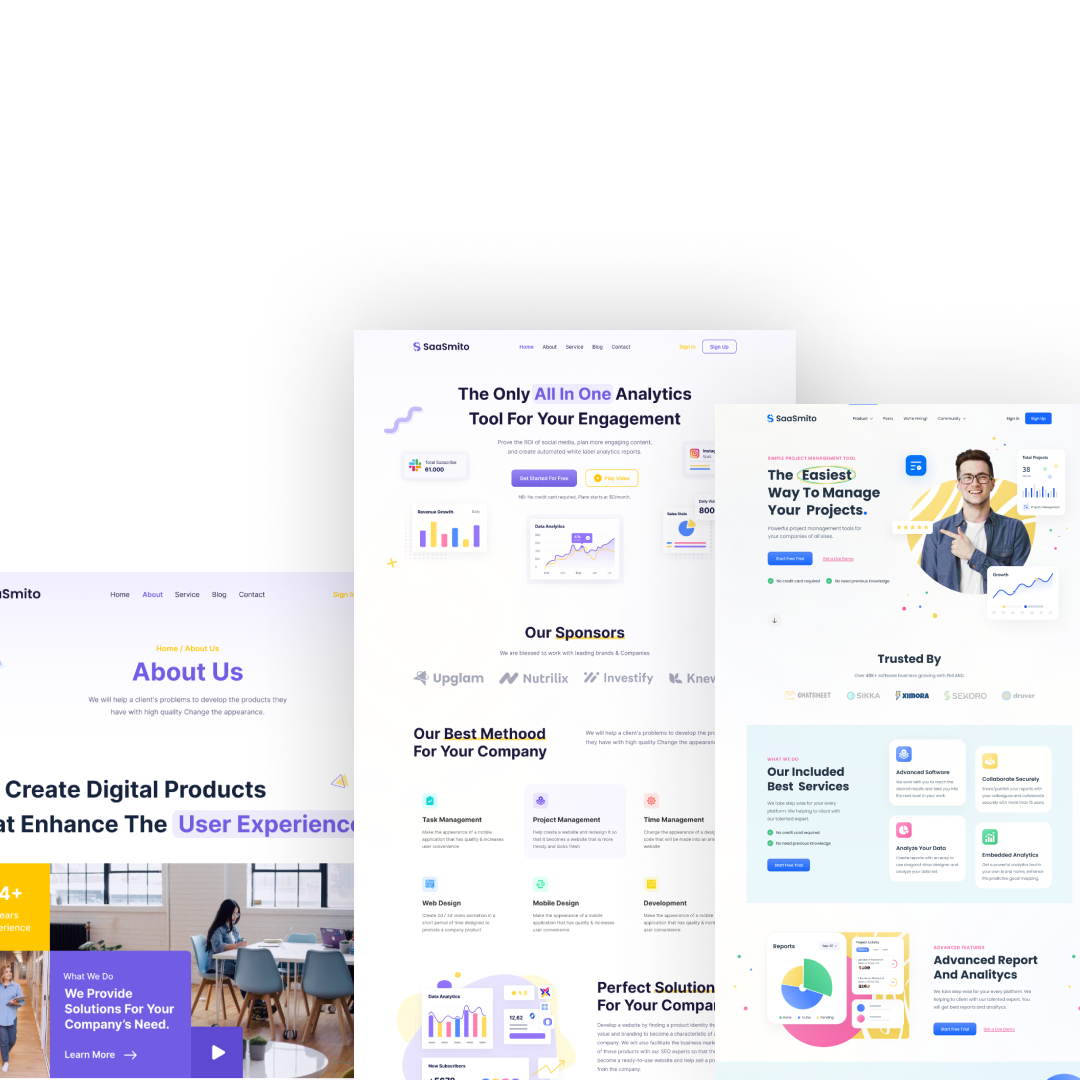
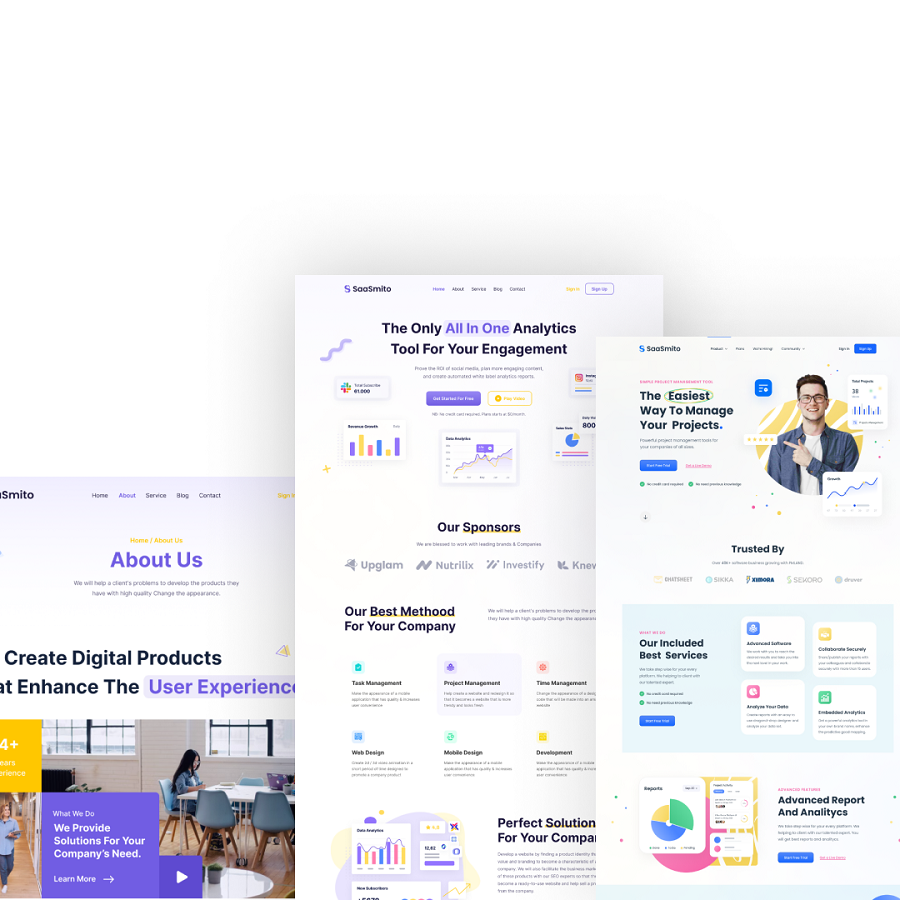
new changes added

diff --git a/style.scss b/style.scss
@@ -198,15 +198,40 @@ main{
     display: flex;
     flex-direction: column;
     align-items: center;
+    span{
+        color: #FF1CF7;
+    }
+    p{
+        margin-top: 20px;
+        width: 50%;
+        text-align: center;
+        letter-spacing: 1px;
+    }
+    button{
+        margin-top: 30px;
+        padding: 8px 26px;
+        outline: none;
+        border: none;
+        border: 1px solid #111;
+        background: transparent;
+        cursor: pointer;
+        font-size: 18px;
+        letter-spacing: 1px;
+        border-radius: 30px;
+    }
     .products-container{
         margin-top: 50px;
         display: flex;
         display: flex;
         justify-content: space-between;
         img{
-            height: 200px;
+            height: 260px;
             border: 1px solid #111;
-            margin: 20px 0;
+            margin: 20px 30px;
+            border-radius: 20px;
+            &:nth-child(2){
+                transform: scale3d(1.1,1.1,1.1);
+            }
         }
     }
 }

diff --git a/style.css b/style.css
@@ -182,6 +182,27 @@ main .image-container img {
   flex-direction: column;
   align-items: center;
 }
+.products span {
+  color: #FF1CF7;
+}
+.products p {
+  margin-top: 20px;
+  width: 50%;
+  text-align: center;
+  letter-spacing: 1px;
+}
+.products button {
+  margin-top: 30px;
+  padding: 8px 26px;
+  outline: none;
+  border: none;
+  border: 1px solid #111;
+  background: transparent;
+  cursor: pointer;
+  font-size: 18px;
+  letter-spacing: 1px;
+  border-radius: 30px;
+}
 .products .products-container {
   margin-top: 50px;
   display: flex;
@@ -189,7 +210,11 @@ main .image-container img {
   justify-content: space-between;
 }
 .products .products-container img {
-  height: 200px;
+  height: 260px;
   border: 1px solid #111;
-  margin: 20px 0;
+  margin: 20px 30px;
+  border-radius: 20px;
+}
+.products .products-container img:nth-child(2) {
+  transform: scale3d(1.1, 1.1, 1.1);
 }/*# sourceMappingURL=style.css.map */

diff --git a/index.html b/index.html
@@ -82,17 +82,21 @@
         </div>
     </div>
     <div class="products">
-        <h1>Our Projects</h1>
+        <span>Our Projects</span>
+        <h1>What Do We Do</h1>
+        <p>all projects that we have already done , proven can help to use more comfortable, then can used by client from our business</p>
         <div class="products-container">
             
                 <img src="./assets/product1.png" alt="">
+                <img src="./assets/product4.png" alt="">
                 <img src="./assets/product2.png" alt="">
-                <img src="./assets/product3.png" alt="">
+                
             <!-- <section>
                 
                 <img src="./assets/product4.png" alt="">
             </section> -->
         </div>
+        <button>See All Portfolio</button>
     </div>
 </body>
 </html>
